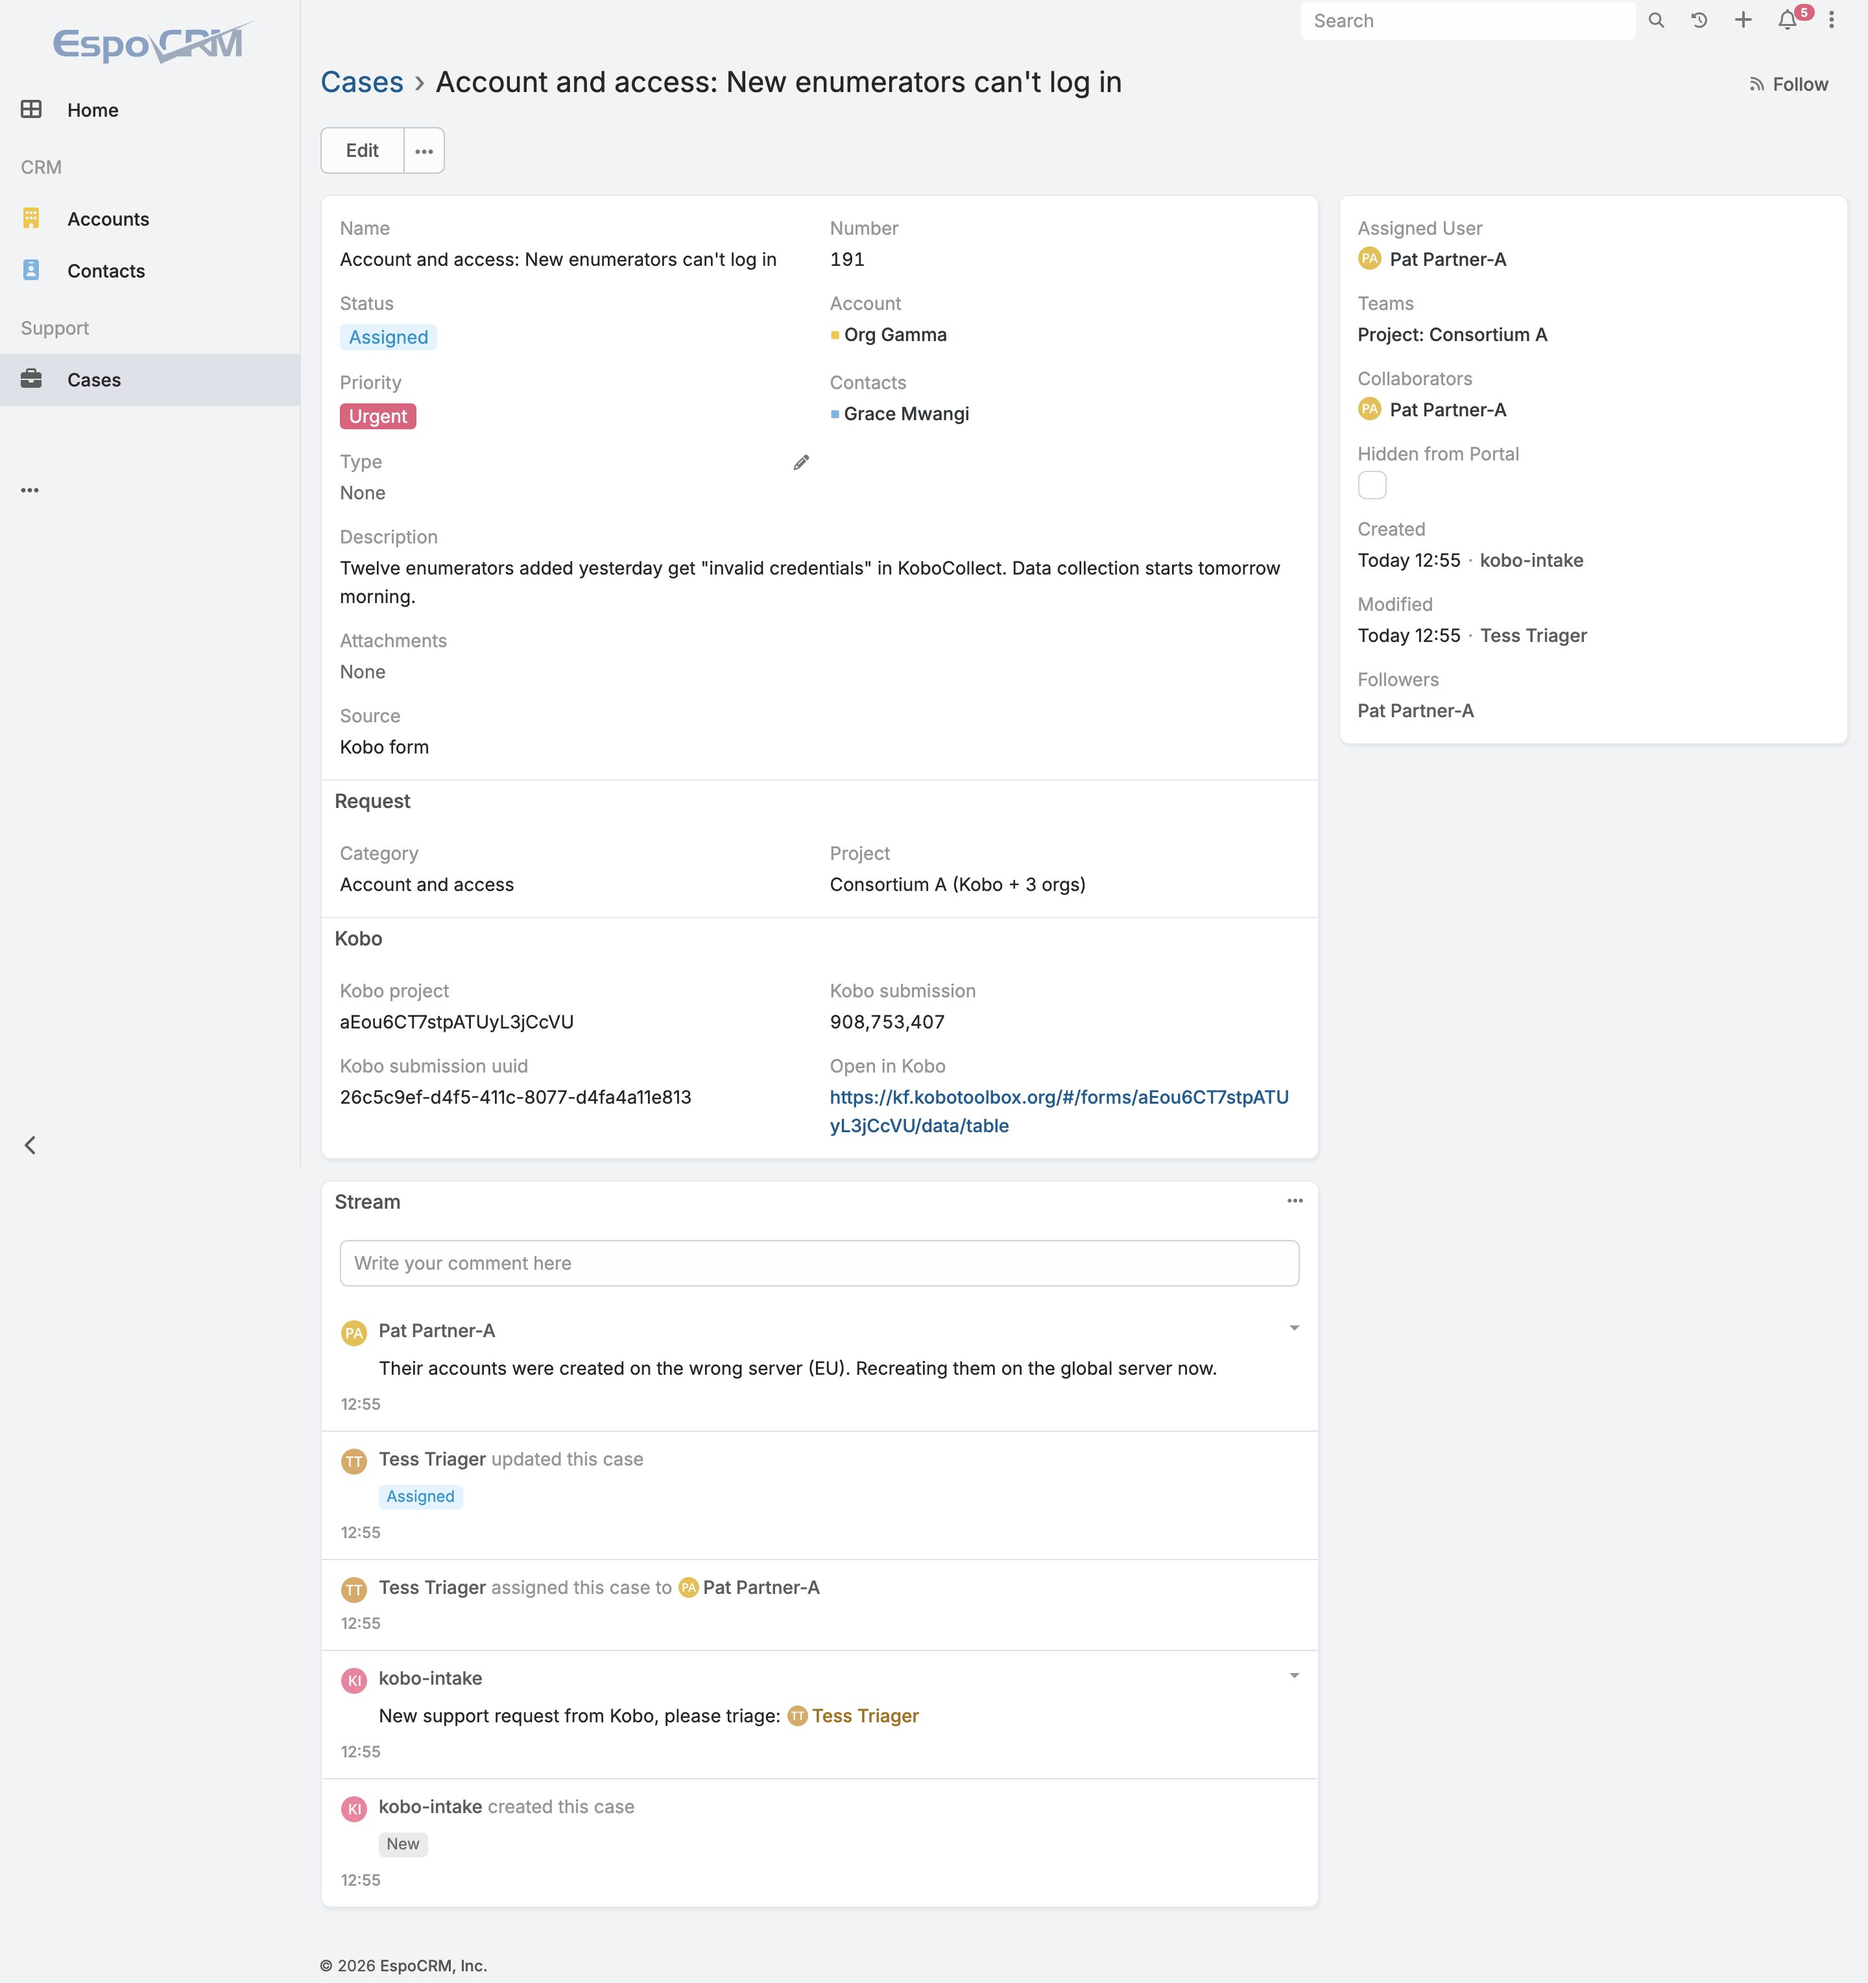
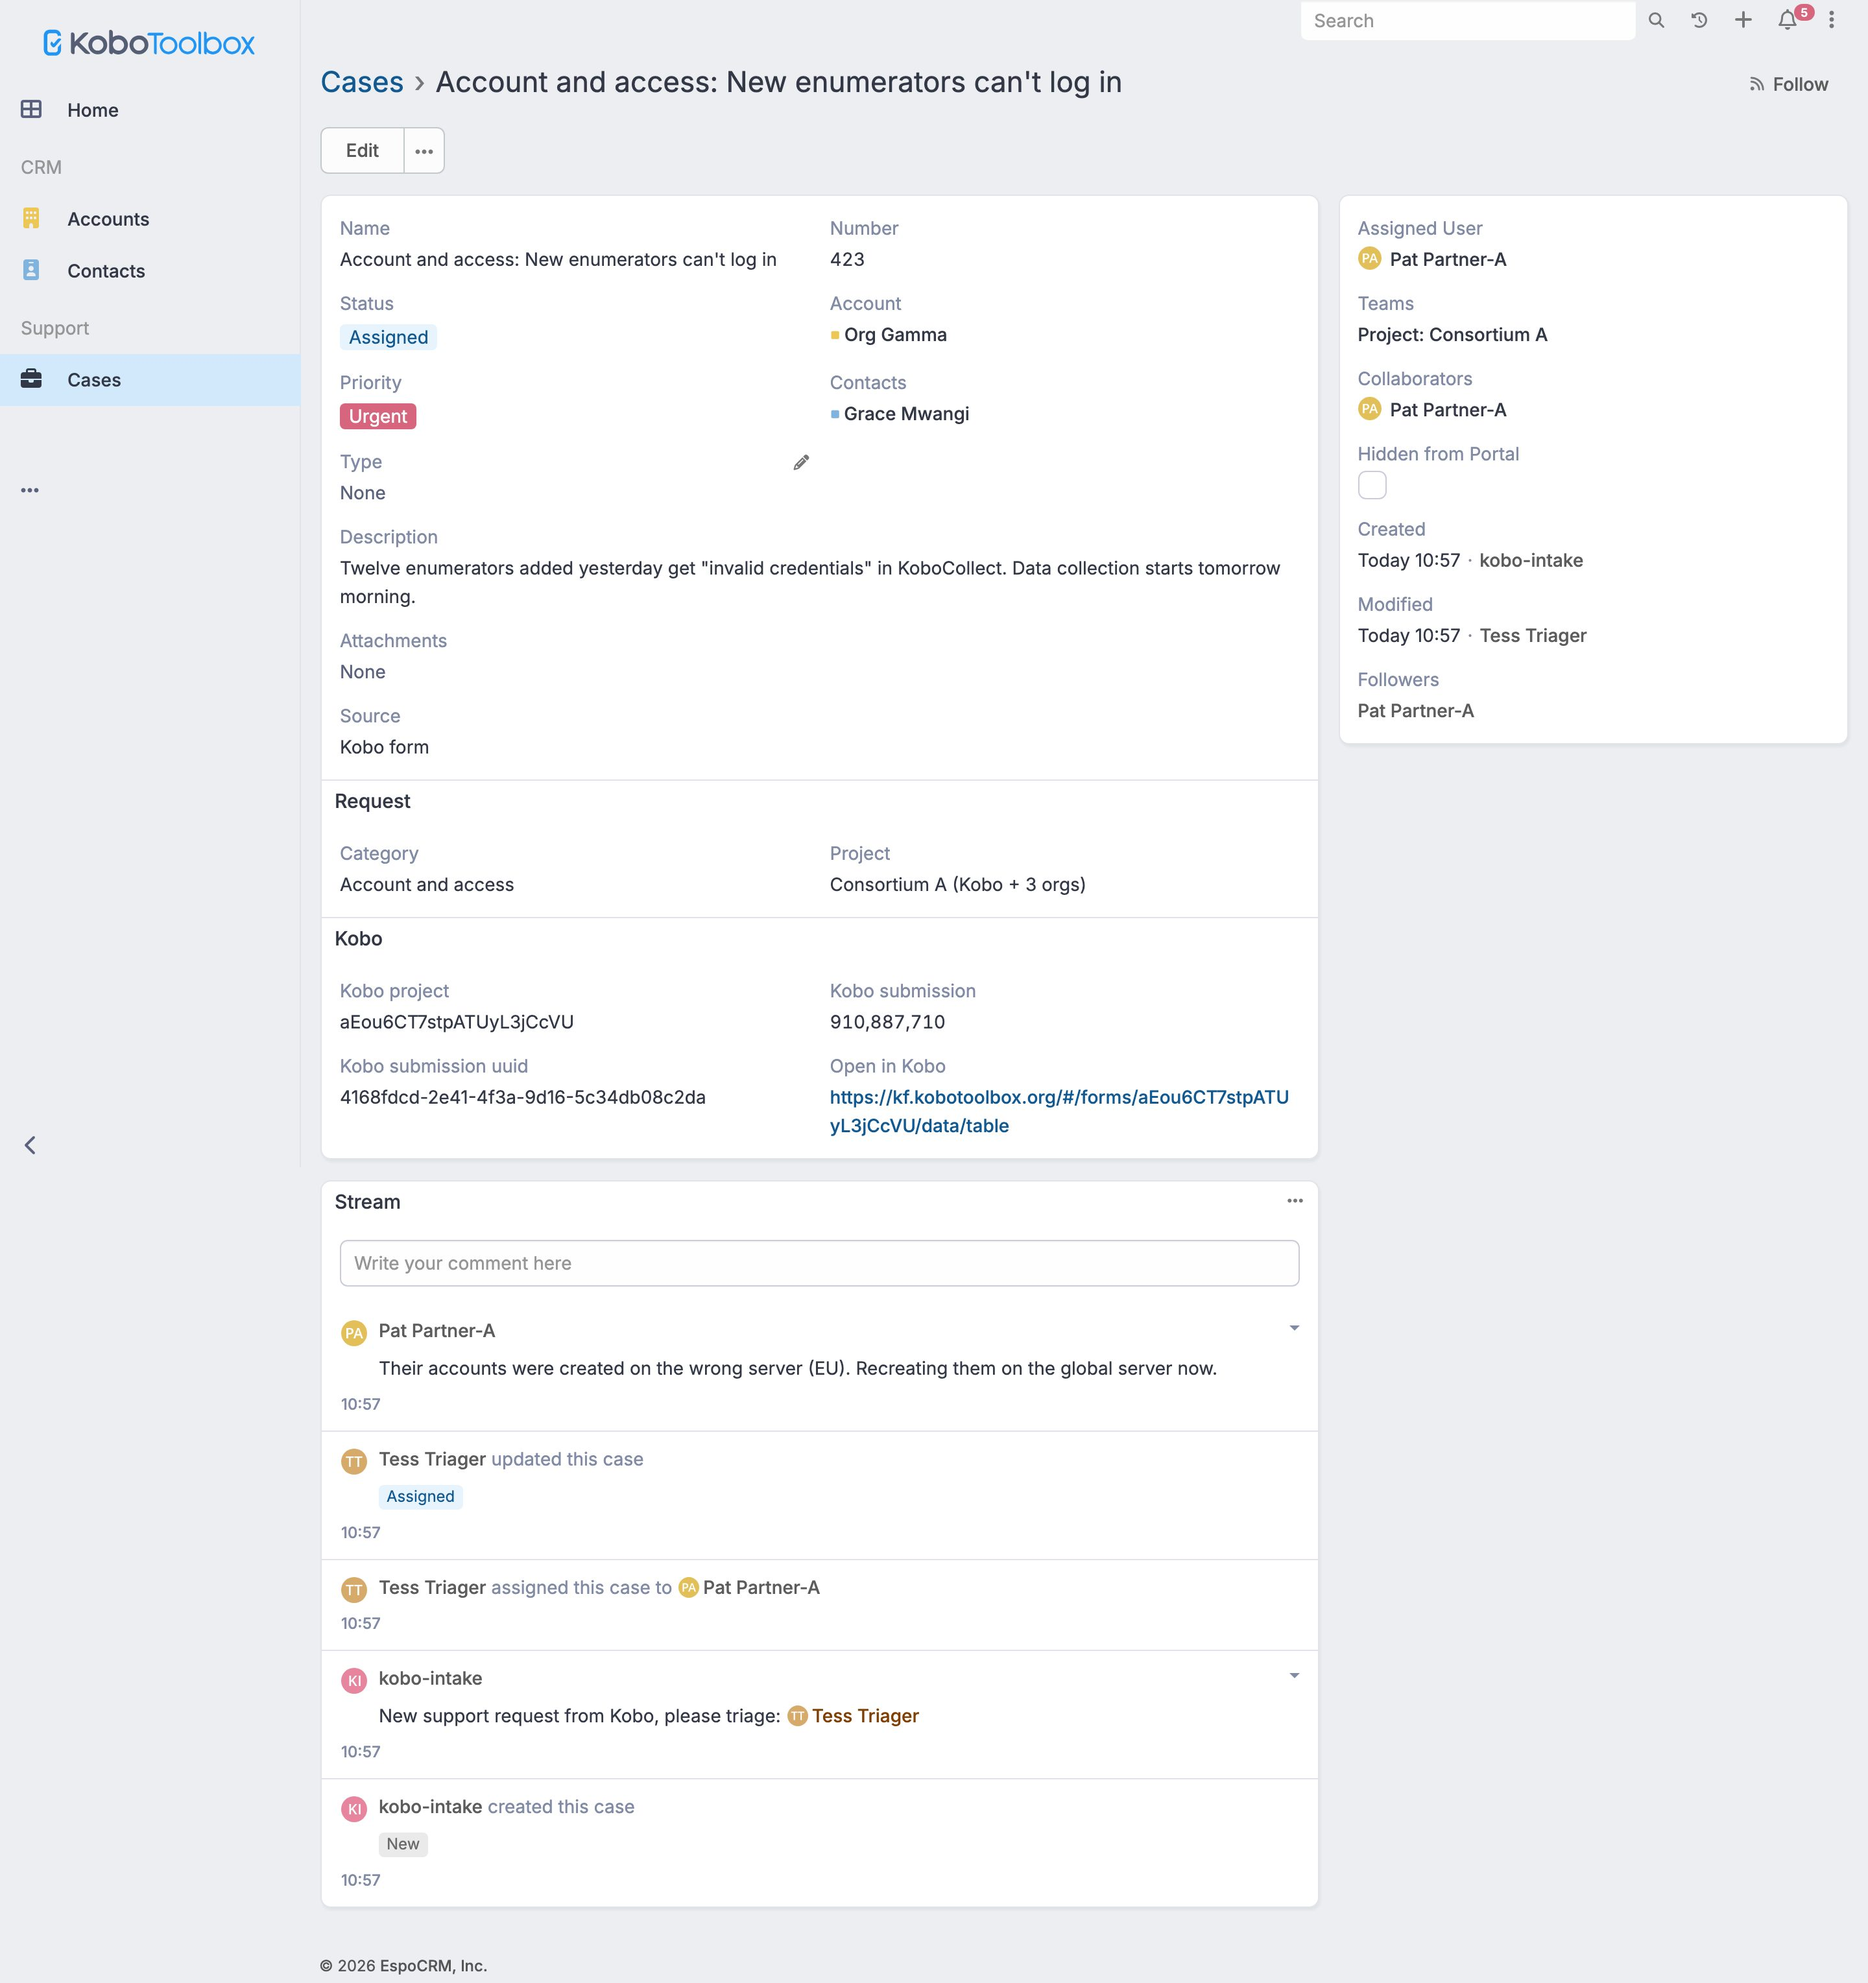
Manual: screenshots retaken in Kobo's look, from fresh demo data

diff --git a/site/index.html b/site/index.html
@@ -83,7 +83,7 @@
 <figure><a href="requests.html"><img src="static/shots/cases-triager.jpg" width="1440" height="900" alt="EspoCRM's Cases list as the triager: five requests from Kobo, each with status, priority, team (Project: Consortium A or B) and assignee."></a><figcaption><a href="requests.html"><strong>Requests</strong></a>: a support form on Kobo becomes a case for the right project team. A triager is notified, assigns it, and the assignee is notified. Partners see only their own consortium's cases.</figcaption></figure>
 <figure><a href="responses.html"><img src="static/shots/board-staff.jpg" width="1440" height="900" alt="The Tasks board with columns Backlog, To do, In progress, Blocked and Done, holding tasks of the earthquake and flood responses with their assignees."></a><figcaption><a href="responses.html"><strong>Responses</strong></a>: each response (an earthquake, a flood) has its team and a task board. Roster experts and volunteers see their own response only. It replaces task boards kept in GitHub Projects, with no GitHub accounts needed.</figcaption></figure>
 </div>
-<figure><a href="sites.html"><img src="static/shots/site.jpg" width="1440" height="1868" alt="A site, Hilltop water point, registered from Kobo: site code, type, status Needs repair, response, equipment and a photo; below, the note of a site visit with what was found and its photo."></a><figcaption><a href="sites.html"><strong>Sites and lists</strong></a>: installations and other sites are registered from Kobo, with photos, and followed up with visit forms that pick the site from a list EspoCRM keeps on the form. Standards and other reference lists reach the forms the same way.</figcaption></figure>
+<figure><a href="sites.html"><img src="static/shots/site.jpg" width="1440" height="2423" alt="A site, Hilltop water point, registered from Kobo: site code, type, status Needs repair, response, equipment and a photo; below, the note of a site visit with what was found and its photo."></a><figcaption><a href="sites.html"><strong>Sites and lists</strong></a>: installations and other sites are registered from Kobo, with photos, and followed up with visit forms that pick the site from a list EspoCRM keeps on the form. Standards and other reference lists reach the forms the same way.</figcaption></figure>
 <p><strong>A response with several clusters</strong> has a project for each, with its own team: see <a href="projects.html">Cluster projects</a>. Its <strong>5W</strong>, on the Hurricane Melissa 5W form, is in EspoCRM too: organisations, activities and the communities they reached, with the follow-up of organisations that haven't reported (<a href="fivew.html">The 5W</a>), and live <a href="dashboards.html">dashboards</a> of it on kobo-dash.</p>
 <p><strong>Another form</strong> can be connected the same way, as a contact, a case, a site or a new kind of record, in one conversation with Claude: see <a href="connect.html">Connecting a form</a>.</p>
 </section>

diff --git a/site/sites.html b/site/sites.html
@@ -74,7 +74,7 @@
   <li>Registering the same <strong>site code</strong> again updates that site; it doesn't make a second one.</li>
   <li>The site's page shows a note saying which submission updated it.</li>
 </ul>
-<figure><a href="static/shots/site.jpg"><img src="static/shots/site.jpg" width="1440" height="1868" alt="The site Hilltop water point: site code EQ1-WP-001, type Water point, status Needs repair, region North district, response Earthquake response, Testland North, installed 20 Oct, last visit yesterday, equipment Hand pump (India Mk II), 2 taps, soak pit, and a photo; standard Distance to water point (linked by its code, WASH-2); registered today. The stream has the site visit by Rui Roster: condition Needs repair, notes Pump handle loose, seal leaking; spare seal needed, with the visit's photo; then kobo-site-visits updated this site to Needs repair, and kobo-sites created it."></a><figcaption>A site from the registration form, after one follow-up visit. The photos are placeholders made for the demo.</figcaption></figure>
+<figure><a href="static/shots/site.jpg"><img src="static/shots/site.jpg" width="1440" height="2423" alt="The site Hilltop water point: site code EQ1-WP-001, type Water point, status Needs repair, region North district, response Earthquake response, Testland North, installed 20 Oct, last visit yesterday, equipment Hand pump (India Mk II), 2 taps, soak pit, and a photo; standard Distance to water point (linked by its code, WASH-2); registered today. The stream has the site visit by Rui Roster: condition Needs repair, notes Pump handle loose, seal leaking; spare seal needed, with the visit's photo; then kobo-site-visits updated this site to Needs repair, and kobo-sites created it."></a><figcaption>A site from the registration form, after one follow-up visit. The photos are placeholders made for the demo.</figcaption></figure>
 <figure><a href="static/shots/sites.jpg"><img src="static/shots/sites.jpg" width="1440" height="900" alt="The Sites list as Kobo staff: seven sites of the two responses with code, type, status, region, response and last visit."></a><figcaption>Every site of the responses you're in.</figcaption></figure>
 </section>
 

diff --git a/site/responses.html b/site/responses.html
@@ -59,7 +59,7 @@
   <li>Agree site list and standards</li>
 </ul>
 <p>The response's page lists its tasks and its sites.</p>
-<figure><a href="static/shots/response.jpg"><img src="static/shots/response.jpg" width="1440" height="1299" alt="The response Earthquake response, Testland North: status Active, Earthquake, Testland, lead Sam Staff, start 18 Oct, team Response: Test EQ 1. Below, its tasks with their statuses (Backlog, Blocked, To do, In progress) and due dates, and its five sites."></a><figcaption>A response, with its tasks and sites.</figcaption></figure>
+<figure><a href="static/shots/response.jpg"><img src="static/shots/response.jpg" width="1440" height="1555" alt="The response Earthquake response, Testland North: status Active, Earthquake, Testland, lead Sam Staff, start 18 Oct, team Response: Test EQ 1. Below, its tasks with their statuses (Backlog, Blocked, To do, In progress) and due dates, and its five sites."></a><figcaption>A response, with its tasks and sites.</figcaption></figure>
 <p>Every task of a response is in the response's team, whatever team it was given. That's what keeps it on that response's members' board and nobody else's.</p>
 </section>
 
@@ -90,7 +90,7 @@
     <tr><td>See users outside their responses</td><td>No</td><td>No</td></tr>
   </tbody>
 </table></div>
-<figure><a href="static/shots/role-volunteer.jpg"><img src="static/shots/role-volunteer.jpg" width="1440" height="2134" alt="The Volunteer role in EspoCRM's administration: Tasks read team, edit own, stream team; Responses and Sites read team; Standards read all; Teams and Users read team; assignment permission no; export no."></a><figcaption>The Volunteer role, as the seed sets it.</figcaption></figure>
+<figure><a href="static/shots/role-volunteer.jpg"><img src="static/shots/role-volunteer.jpg" width="1440" height="2602" alt="The Volunteer role in EspoCRM's administration: Tasks read team, edit own, stream team; Responses and Sites read team; Standards read all; Teams and Users read team; assignment permission no; export no."></a><figcaption>The Volunteer role, as the seed sets it.</figcaption></figure>
 </section>
 
 <section id="signups">
